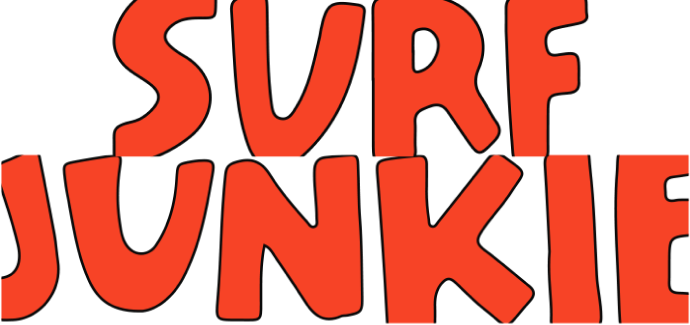
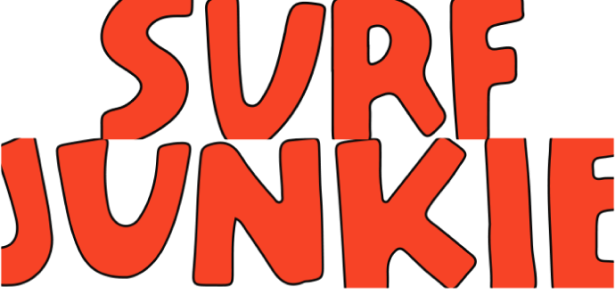
Atualizando page

diff --git a/styles.scss b/styles.scss
@@ -11,9 +11,9 @@ html {
     mask-position: 0px 0px;
     background: #F74326;
     position: absolute;
-    top: 61px;
+    top: 50px;
     height: 328px;
-    left: 4px;
+    left: 1px;
 
     img {
         position: relative;
@@ -36,16 +36,24 @@ html {
 
 
 .container-image {
-    width: 696px;
+    width: 614.49px;
+    height: 482.61px;
+
+
     text-align: center;
     position: relative;
     background: url("./nft2.png");
     background-position: -1755px 5px;
     background-repeat: no-repeat;
     animation: animationBackground 20s linear infinite;
+    background-color: #FCFCF5;
 
     .molduraGeral {
         width: 100%;
+        position: relative;
+        left: -2px;
+        top: -3px;
+        z-index: 1;
     }
 
     @keyframes animationBackground {
@@ -69,6 +77,7 @@ html {
     justify-content: center;
 
     background: #499B4F;
+    
     background-image: url(./nfts-page.png);
     background-repeat: no-repeat;
     background-size: cover;
@@ -77,7 +86,8 @@ html {
     animation: backgroundPage 30s linear infinite;
 
     .molduraGeral {
-        width: 100%;
+        width: 620.49px;
+        height: 488.61px;
     }
 
     @keyframes backgroundPage {
@@ -94,8 +104,10 @@ html {
 
 .stroke {
     position: absolute;
-    top: 61px;
-    left: 4px;
+    top: 50px;
+    left: 2px;
+    width: 100%;
+
 
     img {
         width: 100%;

diff --git a/styles.css b/styles.css
@@ -14,9 +14,9 @@ html {
           mask-position: 0px 0px;
   background: #F74326;
   position: absolute;
-  top: 61px;
+  top: 50px;
   height: 328px;
-  left: 4px;
+  left: 1px;
 }
 
 .mask1 img {
@@ -46,7 +46,8 @@ html {
 }
 
 .container-image {
-  width: 696px;
+  width: 614.49px;
+  height: 482.61px;
   text-align: center;
   position: relative;
   background: url("./nft2.png");
@@ -54,10 +55,15 @@ html {
   background-repeat: no-repeat;
   -webkit-animation: animationBackground 20s linear infinite;
           animation: animationBackground 20s linear infinite;
+  background-color: #FCFCF5;
 }
 
 .container-image .molduraGeral {
   width: 100%;
+  position: relative;
+  left: -2px;
+  top: -3px;
+  z-index: 1;
 }
 
 @-webkit-keyframes animationBackground {
@@ -99,7 +105,8 @@ html {
 }
 
 .container-home .molduraGeral {
-  width: 100%;
+  width: 620.49px;
+  height: 488.61px;
 }
 
 @-webkit-keyframes backgroundPage {
@@ -122,8 +129,9 @@ html {
 
 .stroke {
   position: absolute;
-  top: 61px;
-  left: 4px;
+  top: 50px;
+  left: 2px;
+  width: 100%;
 }
 
 .stroke img {

diff --git a/index.html b/index.html
@@ -25,12 +25,15 @@
                 <div class="mask1">
                     <img src="./nfts.png" alt="Cinque Terre" class="img">
                 </div>
+                
                 <div class="stroke">
                     <img src="./stroke.png" alt="">
                 </div>
             </div>
         </div>
     </main>
+
+    <script src="./script.js"></script>
 </body>
 
 </html>

diff --git a/script.js b/script.js
@@ -1,0 +1,7 @@
+const containerImage = document.querySelector(".container-home")
+
+const numAleatorio = (Math.random() * (2 - 1) + 1).toFixed(0)
+
+if (numAleatorio == 1) {
+    containerImage.style.backgroundImage = "none"
+}
